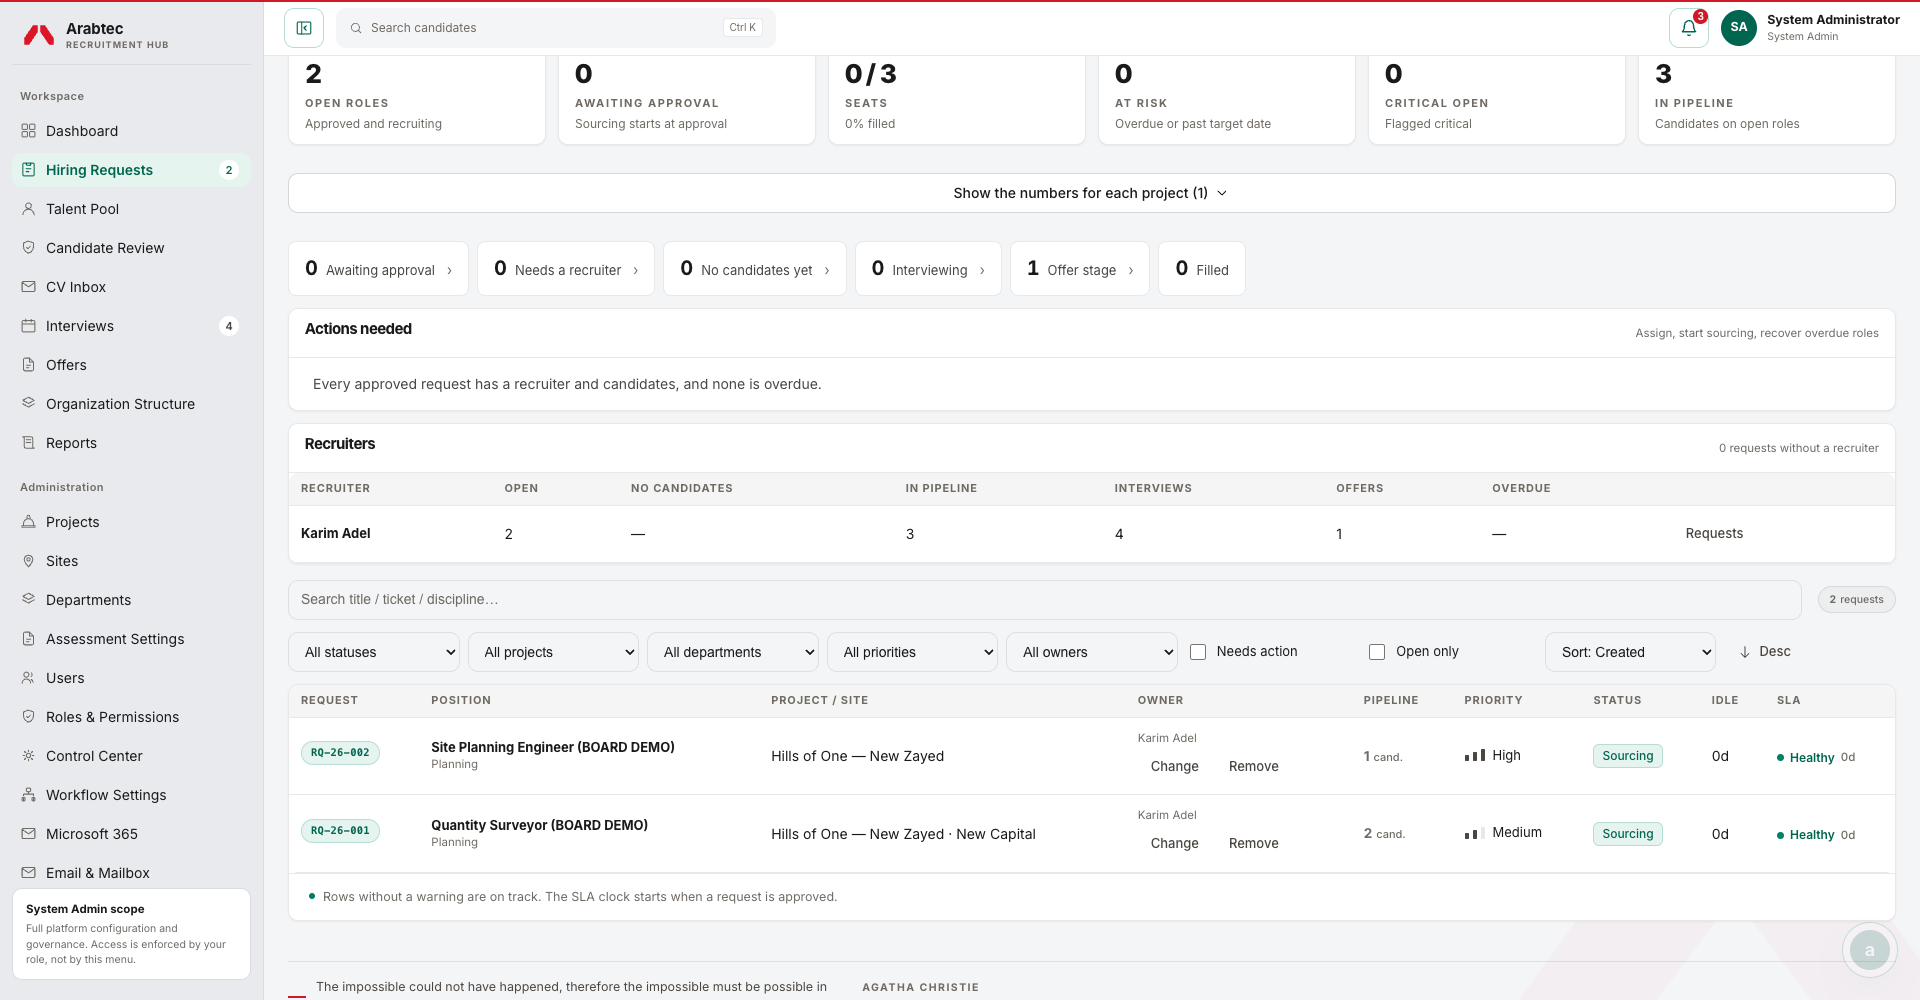
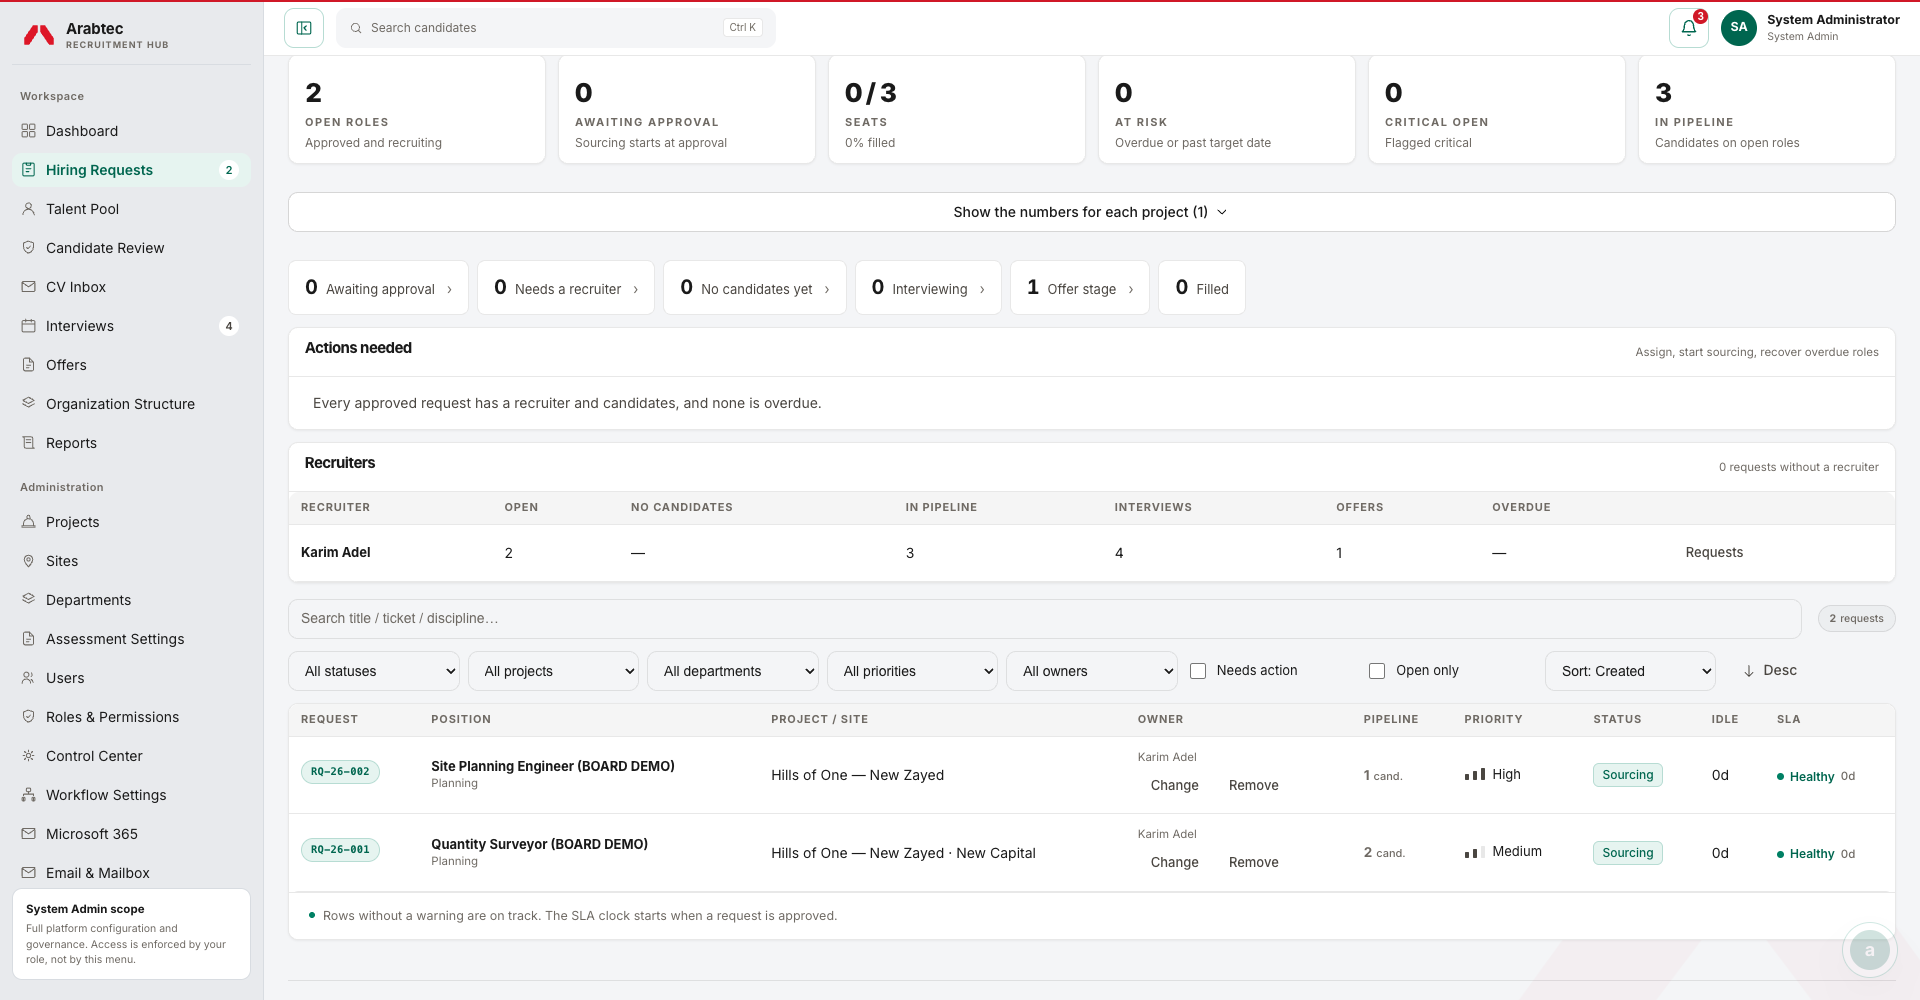
fix(ui): sort-direction button is a standard 40px .btn instead of a height override
ui_form_controls (R17) forbids a page-scoped .btn height outside section 6;
dropping btn-sm gives the same 40px row without the override. Verification on
80e243a stopped as superseded (logs kept, password redacted).

diff --git a/frontend/public/app.jsx b/frontend/public/app.jsx
@@ -5544,7 +5544,7 @@ function RequestsPage({ user, initialFilters }) {
         </label>
         <select className="sort-select" value={filters.sort} onChange={(e) => setFilters((f) => ({ ...f, sort: e.target.value }))}>
           <option value="created">Sort: Created</option><option value="priority">Priority</option><option value="title">Title</option><option value="status">Status</option><option value="ticket">Ticket No</option></select>
-        <button className="btn btn-ghost btn-sm" onClick={() => setFilters((f) => ({ ...f, dir: f.dir === 'desc' ? 'asc' : 'desc' }))}><Icon name={filters.dir === 'desc' ? 'arrowDown' : 'arrowUp'} size={16} />{filters.dir === 'desc' ? 'Desc' : 'Asc'}</button>
+        <button className="btn btn-ghost" onClick={() => setFilters((f) => ({ ...f, dir: f.dir === 'desc' ? 'asc' : 'desc' }))}><Icon name={filters.dir === 'desc' ? 'arrowDown' : 'arrowUp'} size={16} />{filters.dir === 'desc' ? 'Desc' : 'Asc'}</button>
         </FilterToolbar>
 
       {activeChips.length > 0 && (

diff --git a/frontend/public/claude-system.css b/frontend/public/claude-system.css
@@ -1326,10 +1326,12 @@ section.card:has(> .cvi-status) > .cvi-status { padding: 0 0 var(--sp-3); gap: v
   }
   .filter-toolbar > .toolbar-secondary > input,
   .filter-toolbar > .toolbar-secondary > select { width: 100%; min-width: 0; max-width: none; }
-  .filter-toolbar > .toolbar-secondary > .switch,
-  .filter-toolbar > .toolbar-secondary > .btn {
+  /* The sort-direction button is a standard .btn (40px, R17); a switch is a
+     label, so it is given the control height here. */
+  .filter-toolbar > .toolbar-secondary > .btn { justify-self: start; }
+  .filter-toolbar > .toolbar-secondary > .switch {
     justify-self: start; box-sizing: border-box;
-    height: var(--cl-ctl-lg); min-height: var(--cl-ctl-lg); padding-top: 0; padding-bottom: 0;
+    height: var(--cl-ctl-lg); padding-top: 0; padding-bottom: 0;
   }
 }
 

diff --git a/docs/audits/ui-rules.md b/docs/audits/ui-rules.md
@@ -75,4 +75,4 @@ On a phone the dashboard shows the four headline tiles as a 2×2 grid, then what
 
 
 ## R19 Row rules — one control height, aligned rows, stacked cards
-Every control in a page-head row or a filter row is 40px (`--cl-ctl-lg`), the view switch included (3px track + 34px segment + 3px track, 8px corners like the buttons beside it, not a pill). Spacing between controls is 8px inside a group and 16px between groups (the view switch is its own group), with 12px between rows. On wide screens (≥1101px) the shared filter toolbar is always two rows: the search and the result count, then the filters as a grid of equal columns (`repeat(auto-fit, minmax(148px, 1fr))`). A control that wraps lands in a column and is never stretched across a line by itself. Switches and the sort-direction button in that grid are 40px too. Candidate cards use columns of at least 320px, and their text is one stacked column (name, title, stage, education), so nothing is cut off at any column count. An empty education block is hidden instead of printing dashes. Rules: `claude-system.css` section 18c. Origin: owner review of the live Talent Pool at 1920, 4 Oct 2026: "buttons are crowded and irregular — where's the spacing and margins rule". Measured before: segments 34px next to 40px buttons, head gaps 15/8/9/8, five 112px inputs plus a 162px select, and "All classifications" alone on a second line at 280px; five card columns with name and university side by side, both cut off. Measured after (local, synthetic data): head gaps 16/8/8/8; at 1920 and 1470 seven equal filters in one row under the search (223px and 159px); at 1366 six per row with the seventh in column 1; cards in 4 columns at 1920 (393px) and 3 at 1470 (378px). Hiring Requests: nine filters in one row at 1920, all 40px.
+Every control in a page-head row or a filter row is 40px (`--cl-ctl-lg`), the view switch included (3px track + 34px segment + 3px track, 8px corners like the buttons beside it, not a pill). Spacing between controls is 8px inside a group and 16px between groups (the view switch is its own group), with 12px between rows. On wide screens (≥1101px) the shared filter toolbar is always two rows: the search and the result count, then the filters as a grid of equal columns (`repeat(auto-fit, minmax(148px, 1fr))`). A control that wraps lands in a column and is never stretched across a line by itself. Switches in that grid are 40px too, and the sort-direction button is a standard `.btn` (40px, R17) rather than `.btn-sm`. Candidate cards use columns of at least 320px, and their text is one stacked column (name, title, stage, education), so nothing is cut off at any column count. An empty education block is hidden instead of printing dashes. Rules: `claude-system.css` section 18c. Origin: owner review of the live Talent Pool at 1920, 4 Oct 2026: "buttons are crowded and irregular — where's the spacing and margins rule". Measured before: segments 34px next to 40px buttons, head gaps 15/8/9/8, five 112px inputs plus a 162px select, and "All classifications" alone on a second line at 280px; five card columns with name and university side by side, both cut off. Measured after (local, synthetic data): head gaps 16/8/8/8; at 1920 and 1470 seven equal filters in one row under the search (223px and 159px); at 1366 six per row with the seventh in column 1; cards in 4 columns at 1920 (393px) and 3 at 1470 (378px). Hiring Requests: nine filters in one row at 1920, all 40px.
